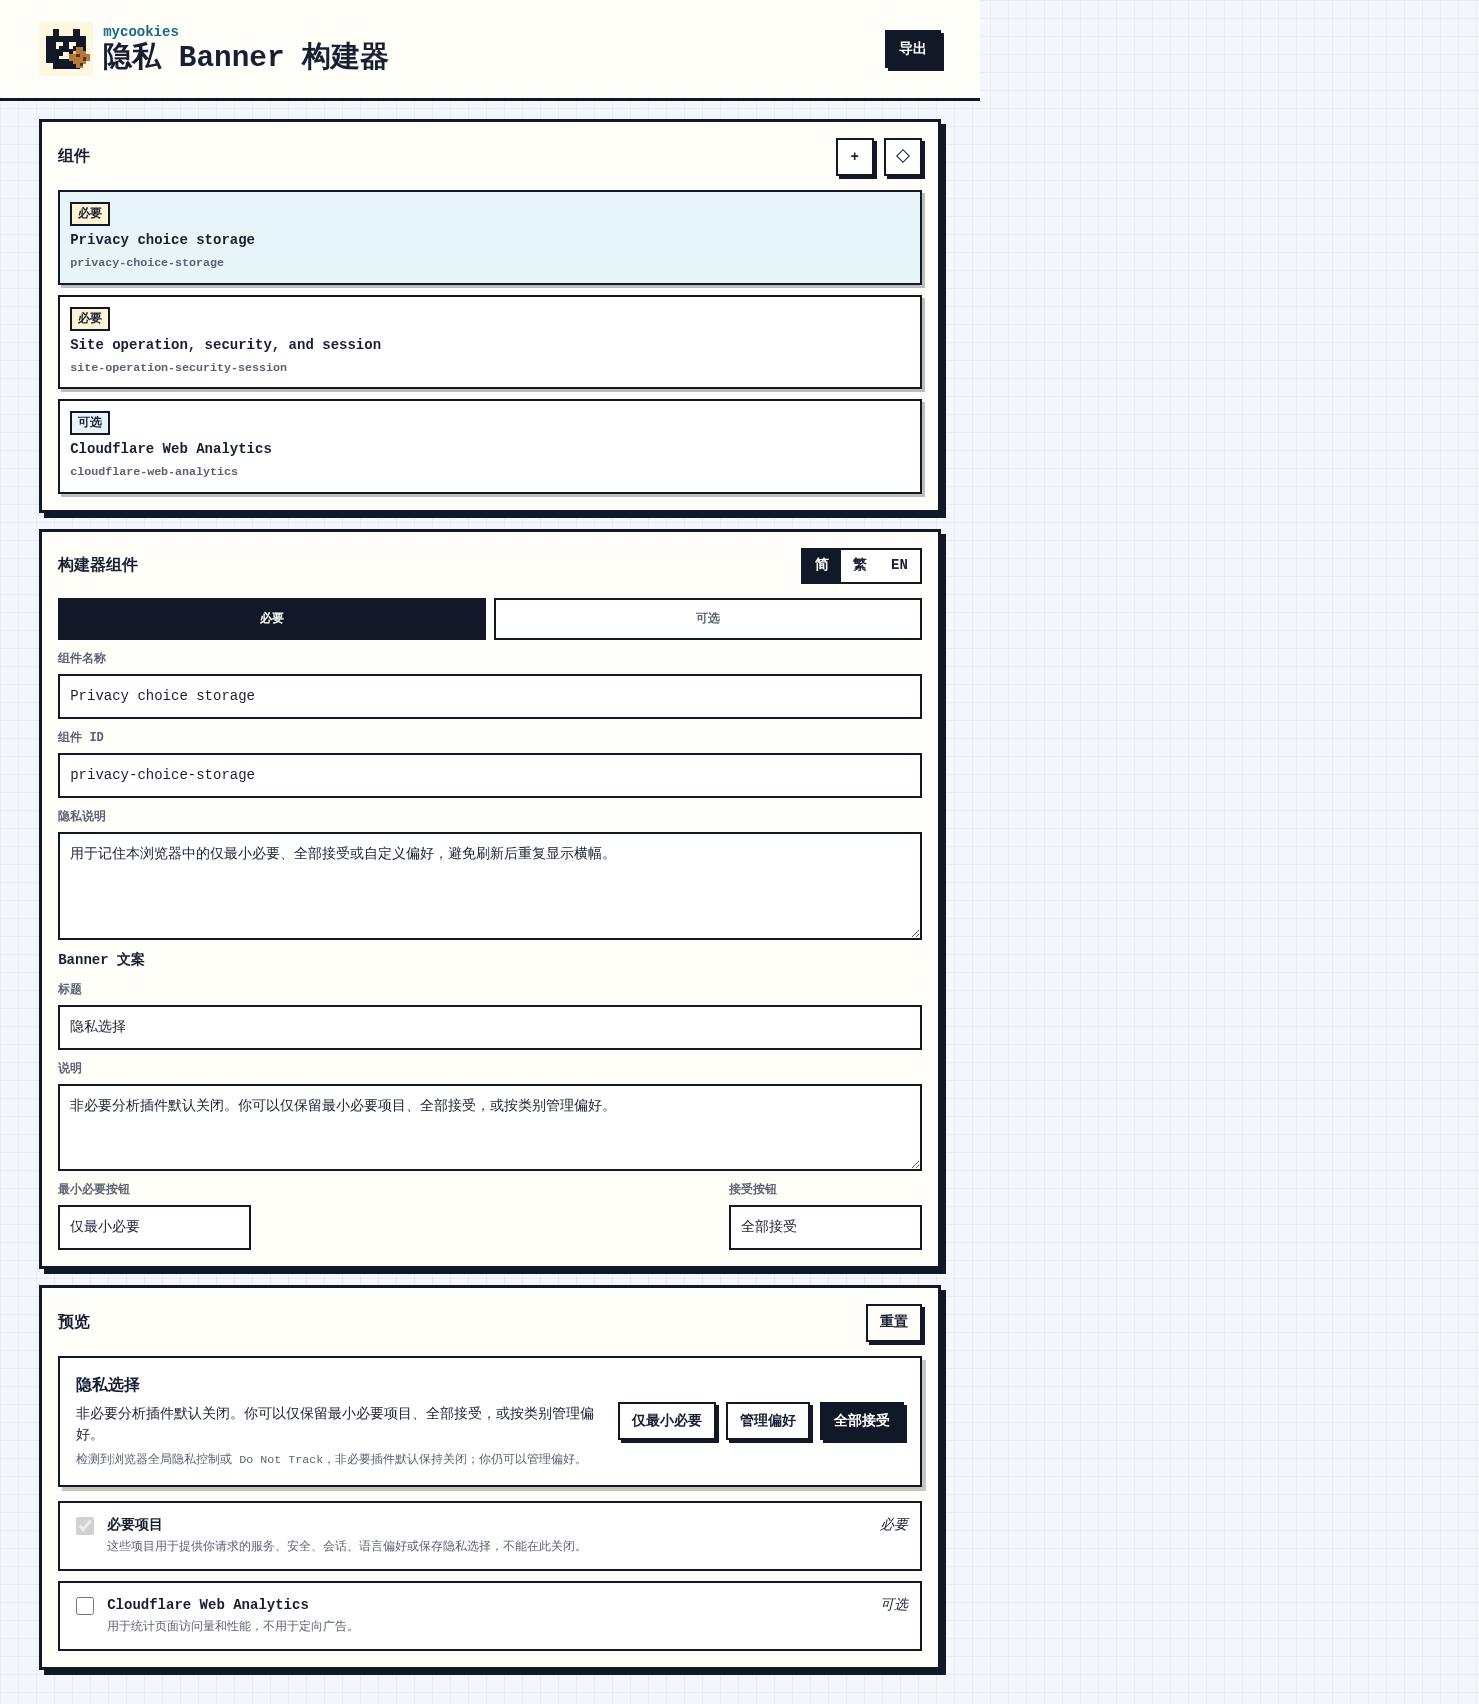
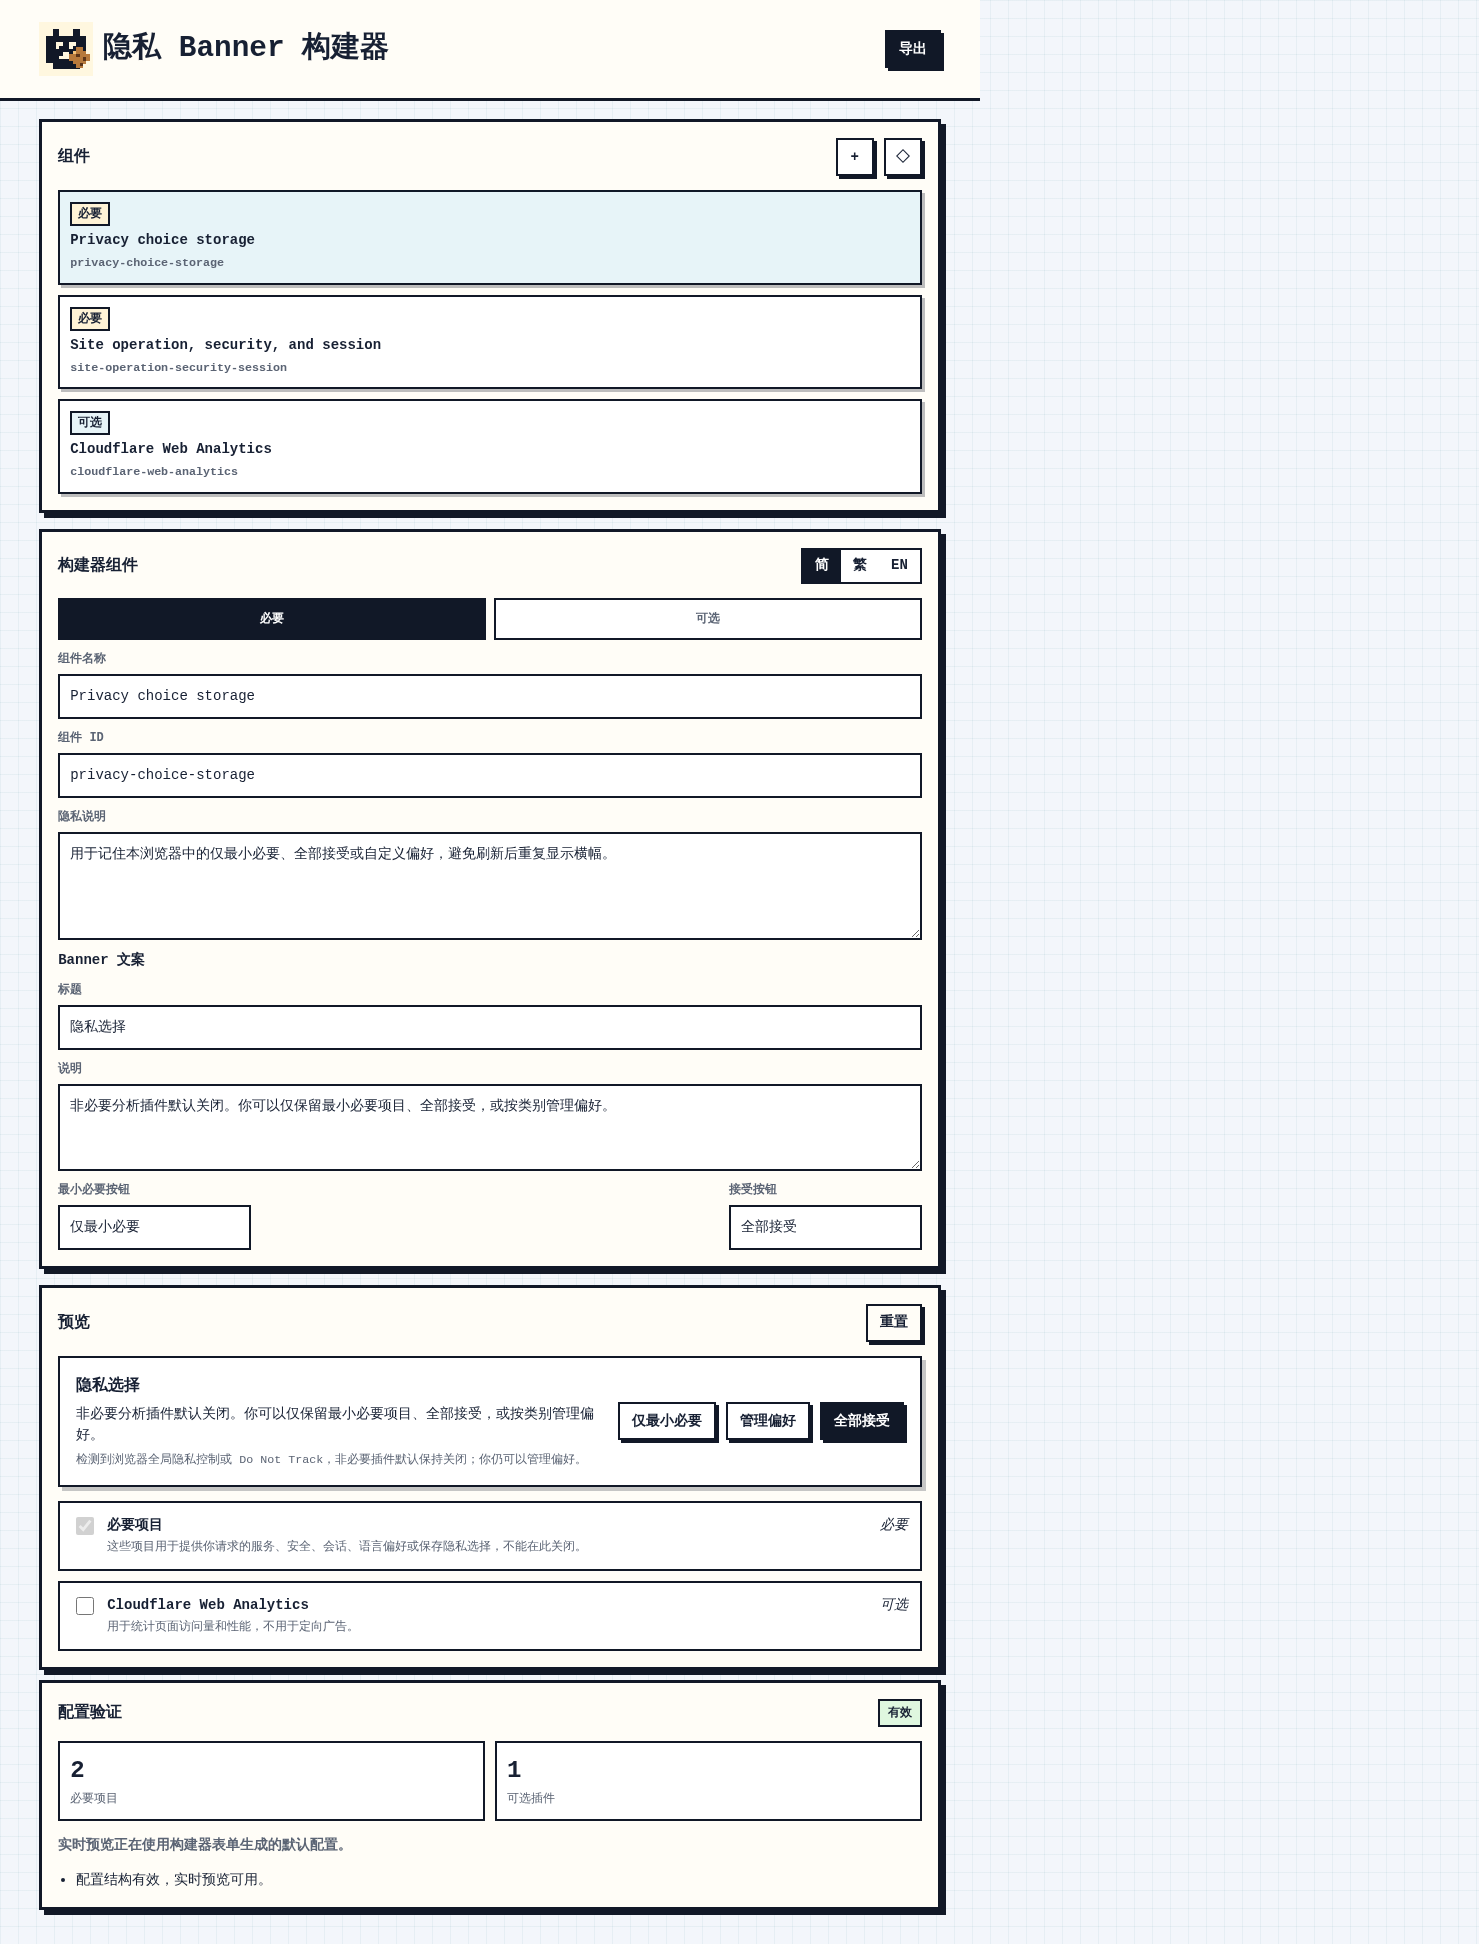
Add builder validation and interaction smoke test

Changed region(s): [[0.0, 0.0, 0.6531, 0.9953]]

diff --git a/public/builder.js b/public/builder.js
@@ -1,9 +1,8 @@
 const langs = ["zh-CN", "zh-TW", "en"];
 const chromeCopy = {
   "zh-CN": {
-    documentTitle: "mycookies 隐私 Banner 构建器",
+    documentTitle: "隐私 Banner 构建器",
     metaDescription: "可视化构建隐私 banner 内容、必要项目和可选插件配置。",
-    brandKicker: "mycookies",
     appTitle: "隐私 Banner 构建器",
     export: "导出",
     components: "组件",
@@ -37,13 +36,25 @@ const chromeCopy = {
     cancel: "取消",
     apply: "应用",
     copied: "已复制",
+    validation: "配置验证",
+    valid: "有效",
+    invalid: "需修正",
+    requiredCount: "必要项目",
+    optionalCount: "可选插件",
+    previewFromBuilder: "实时预览正在使用构建器表单生成的默认配置。",
+    previewFromJson: "实时预览正在使用导出窗口中的 JSON 配置。",
+    validDefault: "配置结构有效，实时预览可用。",
+    missingUi: "缺少当前语言的 UI 文案。",
+    missingRequired: "至少需要一个必要项目说明。",
+    missingPluginSrc: "可选插件需要填写脚本地址。",
+    tokenNotAllowed: "配置中不应包含 token 或 data-cf-beacon，请在部署环境中注入敏感值。",
+    invalidJson: "JSON 无法解析，实时预览已保留上一次有效配置。",
     requiredDefaultName: "必要服务",
     optionalDefaultName: "可选插件"
   },
   "zh-TW": {
-    documentTitle: "mycookies 隱私 Banner 建構器",
+    documentTitle: "隱私 Banner 建構器",
     metaDescription: "視覺化建立隱私 banner 內容、必要項目與可選外掛配置。",
-    brandKicker: "mycookies",
     appTitle: "隱私 Banner 建構器",
     export: "匯出",
     components: "組件",
@@ -77,13 +88,25 @@ const chromeCopy = {
     cancel: "取消",
     apply: "套用",
     copied: "已複製",
+    validation: "配置驗證",
+    valid: "有效",
+    invalid: "需修正",
+    requiredCount: "必要項目",
+    optionalCount: "可選外掛",
+    previewFromBuilder: "即時預覽正在使用建構器表單產生的預設配置。",
+    previewFromJson: "即時預覽正在使用匯出視窗中的 JSON 配置。",
+    validDefault: "配置結構有效，即時預覽可用。",
+    missingUi: "缺少目前語言的 UI 文案。",
+    missingRequired: "至少需要一個必要項目說明。",
+    missingPluginSrc: "可選外掛需要填寫腳本地址。",
+    tokenNotAllowed: "配置中不應包含 token 或 data-cf-beacon，請在部署環境中注入敏感值。",
+    invalidJson: "JSON 無法解析，即時預覽已保留上一個有效配置。",
     requiredDefaultName: "必要服務",
     optionalDefaultName: "可選外掛"
   },
   en: {
-    documentTitle: "mycookies Privacy Banner Builder",
+    documentTitle: "Privacy Banner Builder",
     metaDescription: "Visually build privacy banner copy, required services, and optional plugin configuration.",
-    brandKicker: "mycookies",
     appTitle: "Privacy Banner Builder",
     export: "Export",
     components: "Components",
@@ -117,6 +140,19 @@ const chromeCopy = {
     cancel: "Cancel",
     apply: "Apply",
     copied: "Copied",
+    validation: "Config Validation",
+    valid: "Valid",
+    invalid: "Needs fixes",
+    requiredCount: "Required services",
+    optionalCount: "Optional plugins",
+    previewFromBuilder: "Live preview is using the default config generated by the builder form.",
+    previewFromJson: "Live preview is using the JSON config from the export dialog.",
+    validDefault: "Config structure is valid and live preview is available.",
+    missingUi: "UI copy is missing for the active language.",
+    missingRequired: "Add at least one required-service disclosure.",
+    missingPluginSrc: "Optional plugins need a script URL.",
+    tokenNotAllowed: "Do not include token or data-cf-beacon values in config; inject secrets at deploy time.",
+    invalidJson: "JSON could not be parsed, so live preview kept the last valid config.",
     requiredDefaultName: "Required service",
     optionalDefaultName: "Optional plugin"
   }
@@ -237,6 +273,11 @@ const importDialog = document.querySelector("#import-dialog");
 const configJson = document.querySelector("#config-json");
 const importSource = document.querySelector("#import-source");
 const snippet = document.querySelector("#snippet");
+const validationStatus = document.querySelector("#validation-status");
+const validationList = document.querySelector("#validation-list");
+const validationSource = document.querySelector("#validation-source");
+const validationRequiredCount = document.querySelector("#validation-required-count");
+const validationOptionalCount = document.querySelector("#validation-optional-count");
 
 function detectLang() {
   if (typeof navigator === "undefined") return "zh-CN";
@@ -420,6 +461,36 @@ function renderPreview(config) {
   ].join("");
 }
 
+function validateConfig(config, parseError = null) {
+  const text = chrome();
+  const errors = [];
+  if (parseError) errors.push(text.invalidJson);
+  if (!config?.ui?.[state.activeLang]) errors.push(text.missingUi);
+  if (!Array.isArray(config?.requiredServices) || config.requiredServices.length === 0) errors.push(text.missingRequired);
+  (config?.plugins || []).forEach((plugin) => {
+    if (plugin?.enabled !== false && !plugin?.src) errors.push(`${plugin?.name || plugin?.id || text.optional}: ${text.missingPluginSrc}`);
+  });
+  if (/data-cf-beacon|token/i.test(JSON.stringify(config || {}))) errors.push(text.tokenNotAllowed);
+  return {
+    ok: errors.length === 0,
+    errors,
+    requiredCount: Array.isArray(config?.requiredServices) ? config.requiredServices.length : 0,
+    optionalCount: Array.isArray(config?.plugins) ? config.plugins.length : 0
+  };
+}
+
+function renderValidation(result, sourceKey) {
+  const text = chrome();
+  validationStatus.textContent = result.ok ? text.valid : text.invalid;
+  validationStatus.classList.toggle("is-valid", result.ok);
+  validationRequiredCount.textContent = String(result.requiredCount);
+  validationOptionalCount.textContent = String(result.optionalCount);
+  validationSource.textContent = text[sourceKey];
+  validationList.innerHTML = result.ok
+    ? `<li>${escapeHtml(text.validDefault)}</li>`
+    : result.errors.map((error) => `<li>${escapeHtml(error)}</li>`).join("");
+}
+
 function refresh() {
   const config = buildConfig();
   applyChrome();
@@ -427,6 +498,7 @@ function refresh() {
   snippet.value = '<script src="https://privacy.js.gripe/privacy-plugin-loader.js?v=20260524v2" defer></script>';
   renderComponentList();
   renderPreview(config);
+  renderValidation(validateConfig(config), "previewFromBuilder");
   localStorage.setItem("mycookies_builder_state_v2", JSON.stringify(state));
 }
 
@@ -515,6 +587,16 @@ document.querySelector("#open-export").addEventListener("click", () => exportDia
 document.querySelector("#import-json").addEventListener("click", () => {
   importSource.value = configJson.value;
   importDialog.showModal();
+});
+configJson.addEventListener("input", () => {
+  try {
+    const config = JSON.parse(configJson.value);
+    const result = validateConfig(config);
+    if (result.ok) renderPreview(config);
+    renderValidation(result, "previewFromJson");
+  } catch (error) {
+    renderValidation(validateConfig(buildConfig(), error), "previewFromJson");
+  }
 });
 importDialog.addEventListener("close", () => {
   if (importDialog.returnValue !== "apply") return;

diff --git a/public/index.html b/public/index.html
@@ -3,8 +3,17 @@
   <head>
     <meta charset="utf-8" />
     <meta name="viewport" content="width=device-width, initial-scale=1" />
-    <title>mycookies builder</title>
+    <title>Privacy Banner Builder</title>
     <meta name="description" content="Build privacy banner content and plugin configuration." />
+    <link rel="canonical" href="https://privacy.js.gripe/" />
+    <meta property="og:type" content="website" />
+    <meta property="og:title" content="Privacy Banner Builder" />
+    <meta property="og:description" content="Build privacy banner content, validate plugin configuration, and preview consent UI." />
+    <meta property="og:url" content="https://privacy.js.gripe/" />
+    <meta property="og:image" content="https://privacy.js.gripe/assets/icon.svg" />
+    <meta name="twitter:card" content="summary" />
+    <meta name="twitter:title" content="Privacy Banner Builder" />
+    <meta name="twitter:description" content="Build privacy banner content, validate plugin configuration, and preview consent UI." />
     <link rel="icon" href="/assets/icon.svg" type="image/svg+xml" />
     <link rel="stylesheet" href="/builder.css" />
   </head>
@@ -13,7 +22,6 @@
       <div class="brand">
         <img src="/assets/icon.svg" alt="" width="54" height="54" />
         <div>
-          <p class="eyebrow" data-i18n="brandKicker">mycookies</p>
           <h1 data-i18n="appTitle">隐私 Banner 构建器</h1>
         </div>
       </div>
@@ -126,6 +134,24 @@
             </div>
           </div>
           <div class="preference-preview" id="preference-preview"></div>
+        </section>
+        <section class="panel validation-panel" aria-labelledby="validation-title">
+          <div class="section-heading">
+            <h2 id="validation-title" data-i18n="validation">配置验证</h2>
+            <span class="status-pill" id="validation-status"></span>
+          </div>
+          <div class="validation-grid">
+            <div>
+              <strong id="validation-required-count">0</strong>
+              <small data-i18n="requiredCount">必要项目</small>
+            </div>
+            <div>
+              <strong id="validation-optional-count">0</strong>
+              <small data-i18n="optionalCount">可选插件</small>
+            </div>
+          </div>
+          <p class="validation-source" id="validation-source"></p>
+          <ul class="validation-list" id="validation-list"></ul>
         </section>
       </aside>
     </main>

diff --git a/public/builder.css b/public/builder.css
@@ -305,6 +305,48 @@ small,
   background: #fff;
 }
 
+.validation-grid {
+  display: grid;
+  grid-template-columns: 1fr 1fr;
+  gap: 10px;
+}
+
+.validation-grid > div {
+  display: grid;
+  gap: 2px;
+  border: 2px solid var(--dark);
+  padding: 10px;
+  background: #fff;
+}
+
+.validation-grid strong {
+  font-size: 24px;
+}
+
+.status-pill {
+  border: 2px solid var(--dark);
+  padding: 3px 8px;
+  background: #fff3d6;
+  font-size: 12px;
+  font-weight: 900;
+}
+
+.status-pill.is-valid {
+  background: #dff7df;
+}
+
+.validation-source {
+  color: var(--muted);
+  font-weight: 700;
+}
+
+.validation-list {
+  display: grid;
+  gap: 6px;
+  margin: 0;
+  padding-left: 18px;
+}
+
 .pref-row input {
   width: 18px;
   height: 18px;
